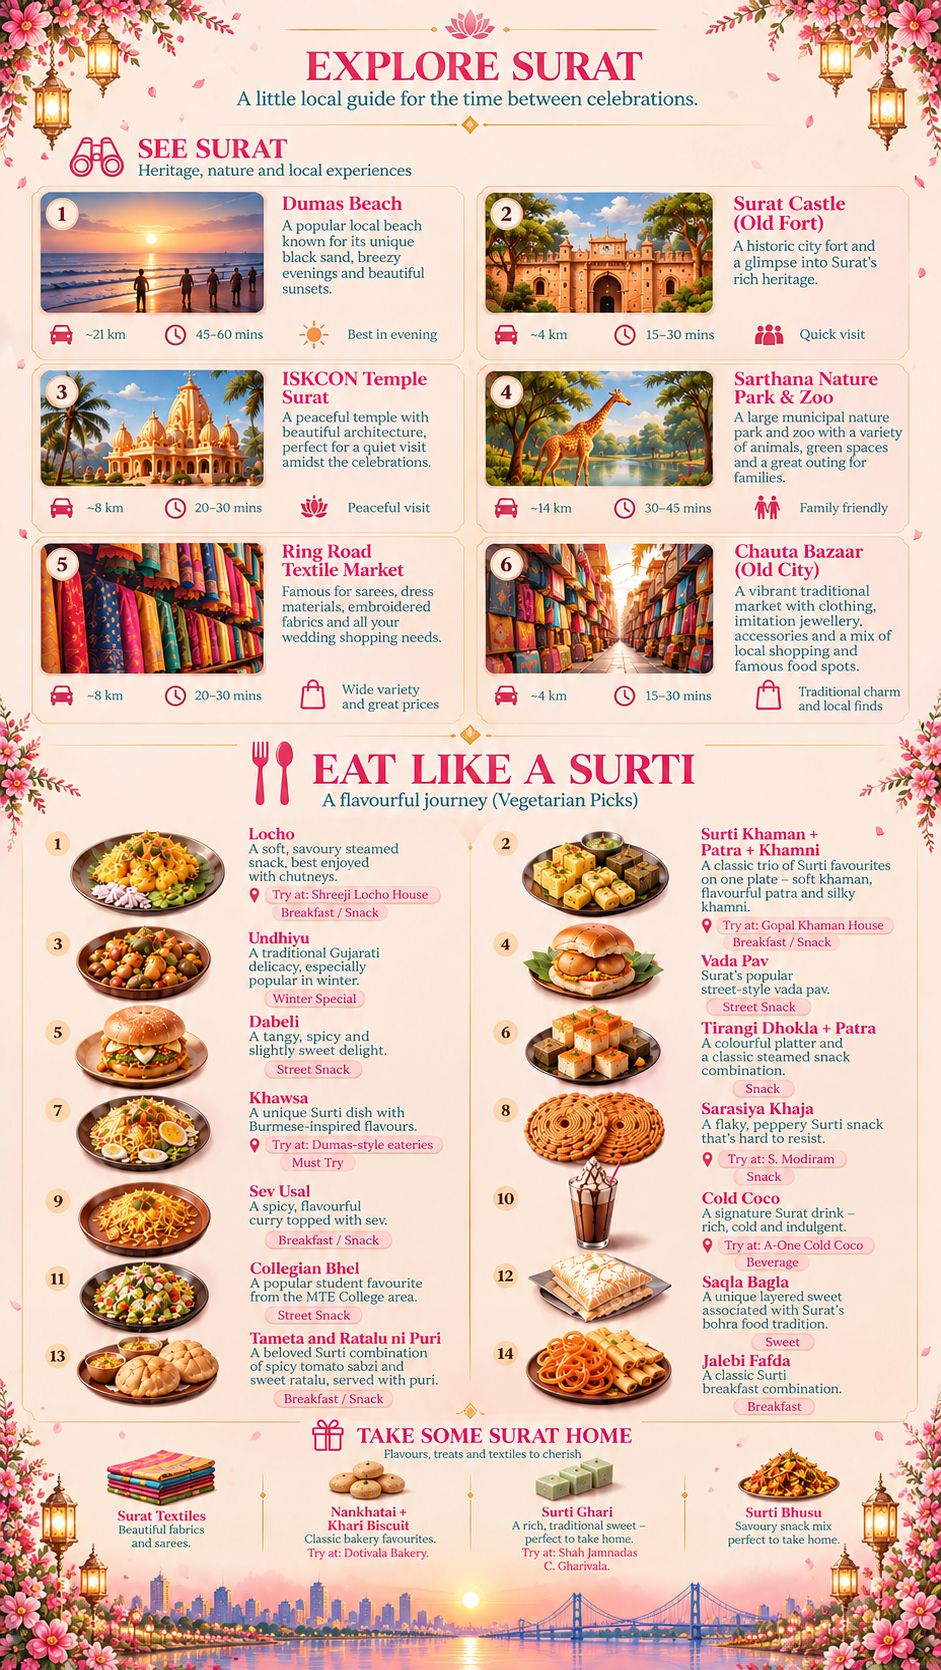
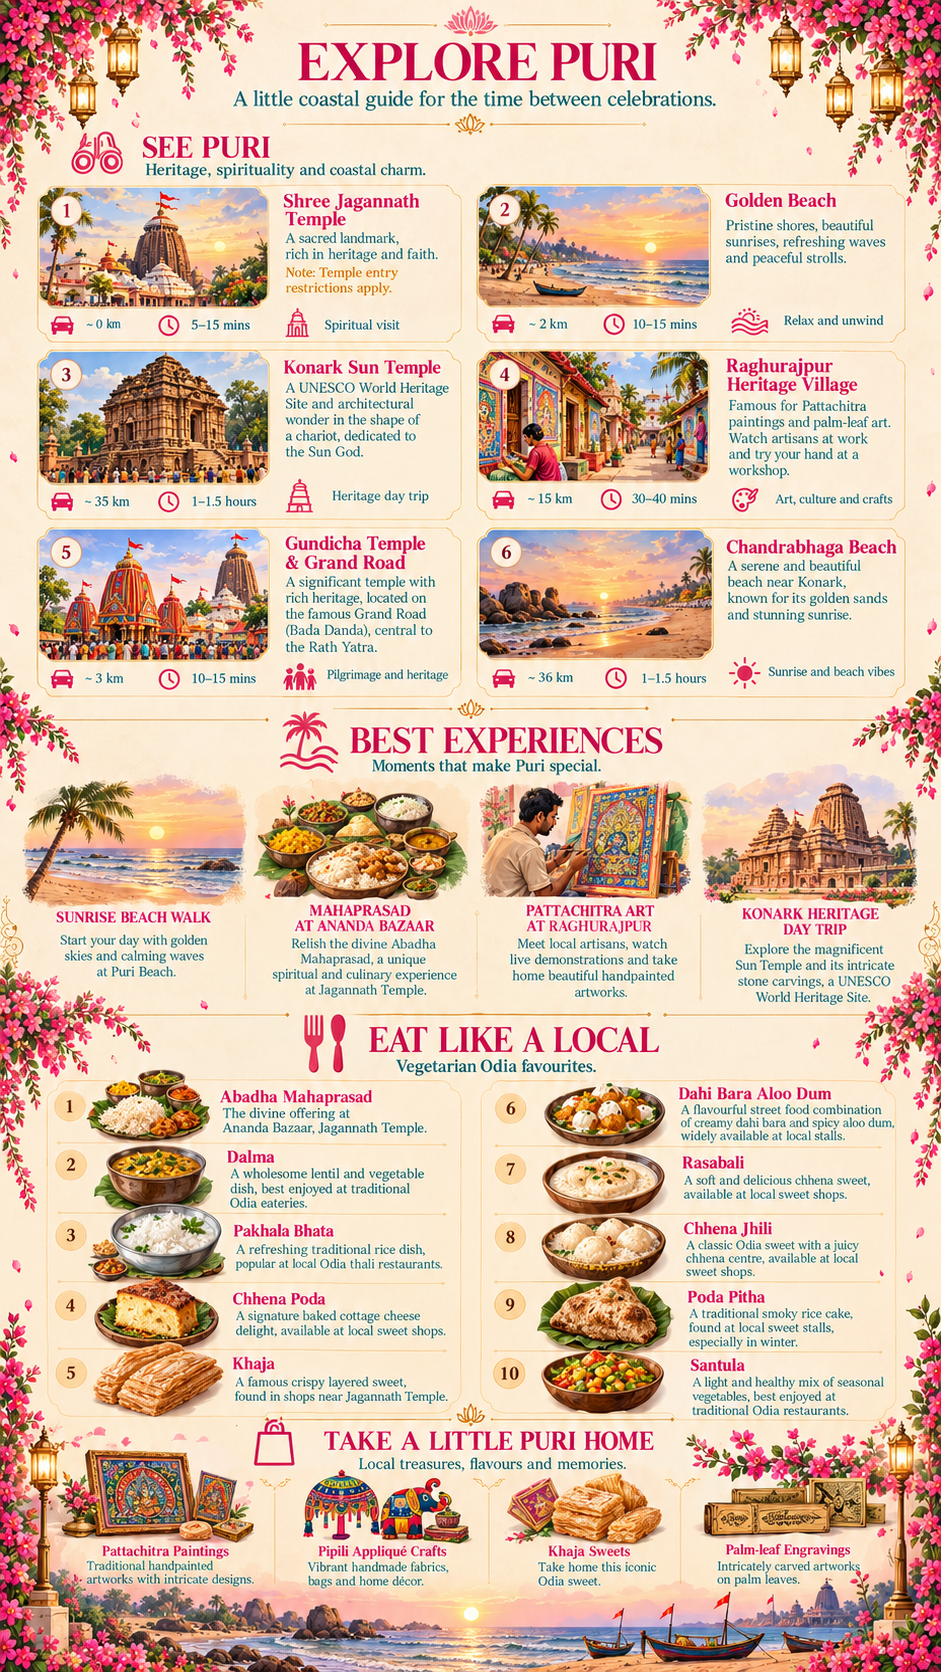
fixed the explore puri

diff --git a/src/App.tsx b/src/App.tsx
@@ -387,7 +387,7 @@ export default function App() {
           <a href="#home" className="sidebar-item" onClick={handleSectionNavigation('home')}>Home</a>
           <a href="#itinerary" className="sidebar-item" onClick={(event) => { event.preventDefault(); setShowItinerary(true); setShowExploreSurat(false); setShowTrip(false); setShowVenues(false); setSidebarOpen(false); window.scrollTo({ top: 0, behavior: 'smooth' }); }}>Detailed Itinerary</a>
           <a href="#our-venues" className="sidebar-item" onClick={(event) => { event.preventDefault(); setShowItinerary(false); setShowExploreSurat(false); setShowTrip(false); setShowVenues(true); setSidebarOpen(false); window.scrollTo({ top: 0, behavior: 'smooth' }); }}>Our Venues</a>
-          <a href="#explore-surat" className="sidebar-item" onClick={(event) => { event.preventDefault(); setShowItinerary(false); setShowExploreSurat(true); setShowTrip(false); setShowVenues(false); setSidebarOpen(false); window.scrollTo({ top: 0, behavior: 'smooth' }); }}>Explore Surat</a>
+          <a href="#explore-surat" className="sidebar-item" onClick={(event) => { event.preventDefault(); setShowItinerary(false); setShowExploreSurat(true); setShowTrip(false); setShowVenues(false); setSidebarOpen(false); window.scrollTo({ top: 0, behavior: 'smooth' }); }}>Explore Puri</a>
           <a href="#trip" className="sidebar-item" onClick={(event) => { event.preventDefault(); setShowItinerary(false); setShowExploreSurat(false); setShowTrip(true); setShowVenues(false); setSidebarOpen(false); window.scrollTo({ top: 0, behavior: 'smooth' }); }}>Trip</a>
           <a href="#rsvp" className="sidebar-item" onClick={handleSectionNavigation('rsvp')}>RSVP</a>
         </nav>
@@ -497,7 +497,7 @@ export default function App() {
 
       {/* ─── SECTION 2 ─── */}
       <section id="story" style={{ position: 'relative', width: '100%', height: 'auto' }}>
-        <img src="/Section2.png" alt="A celebration of love, family, and wedding festivities" style={{ width: '100%', height: 'auto', display: 'block' }} />
+        <img src="/Section2.png?v=20261014" alt="A celebration of love, family, and wedding festivities" style={{ width: '100%', height: 'auto', display: 'block' }} />
         {[
           { event: 'Mehendi', top: '49.4%' },
           { event: 'Haldi', top: '63.3%' },
